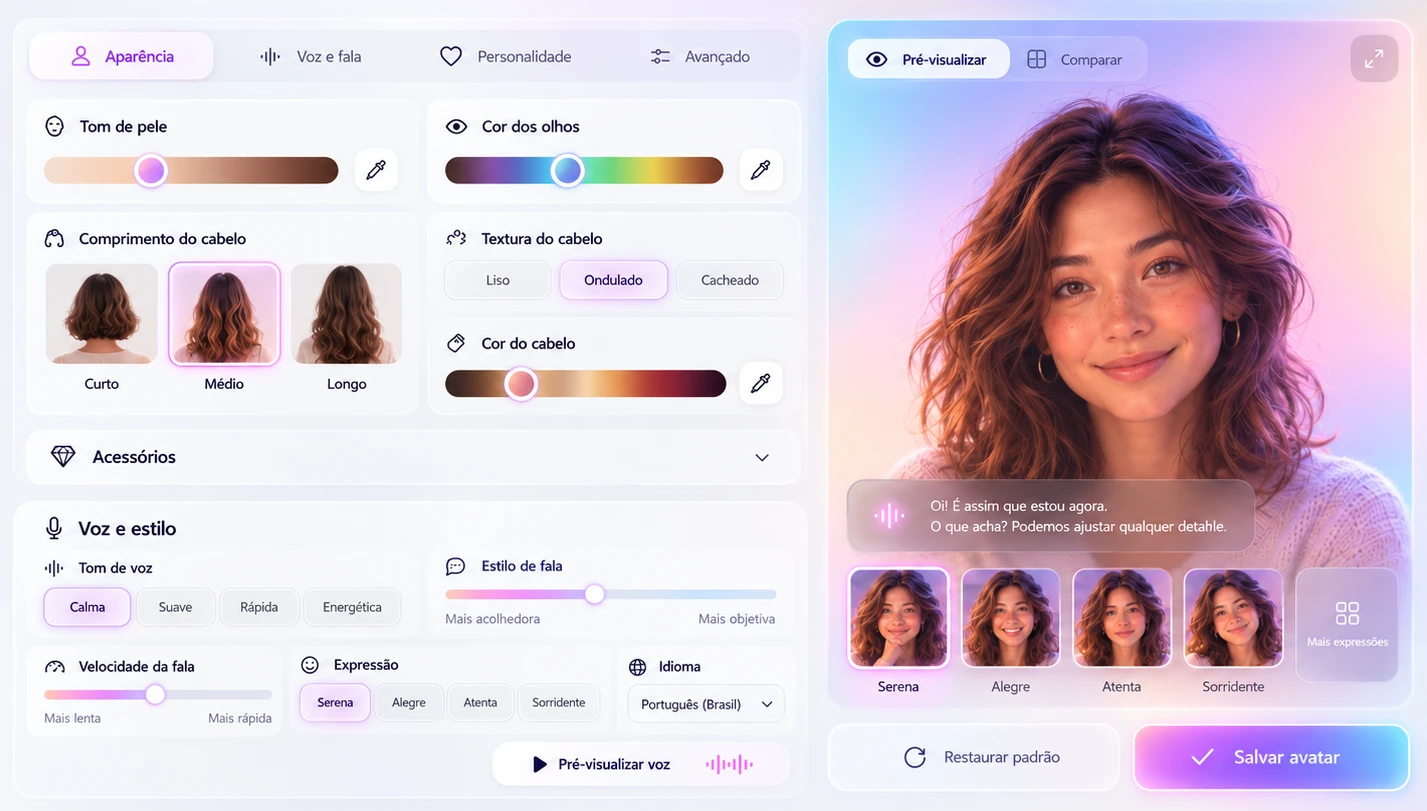
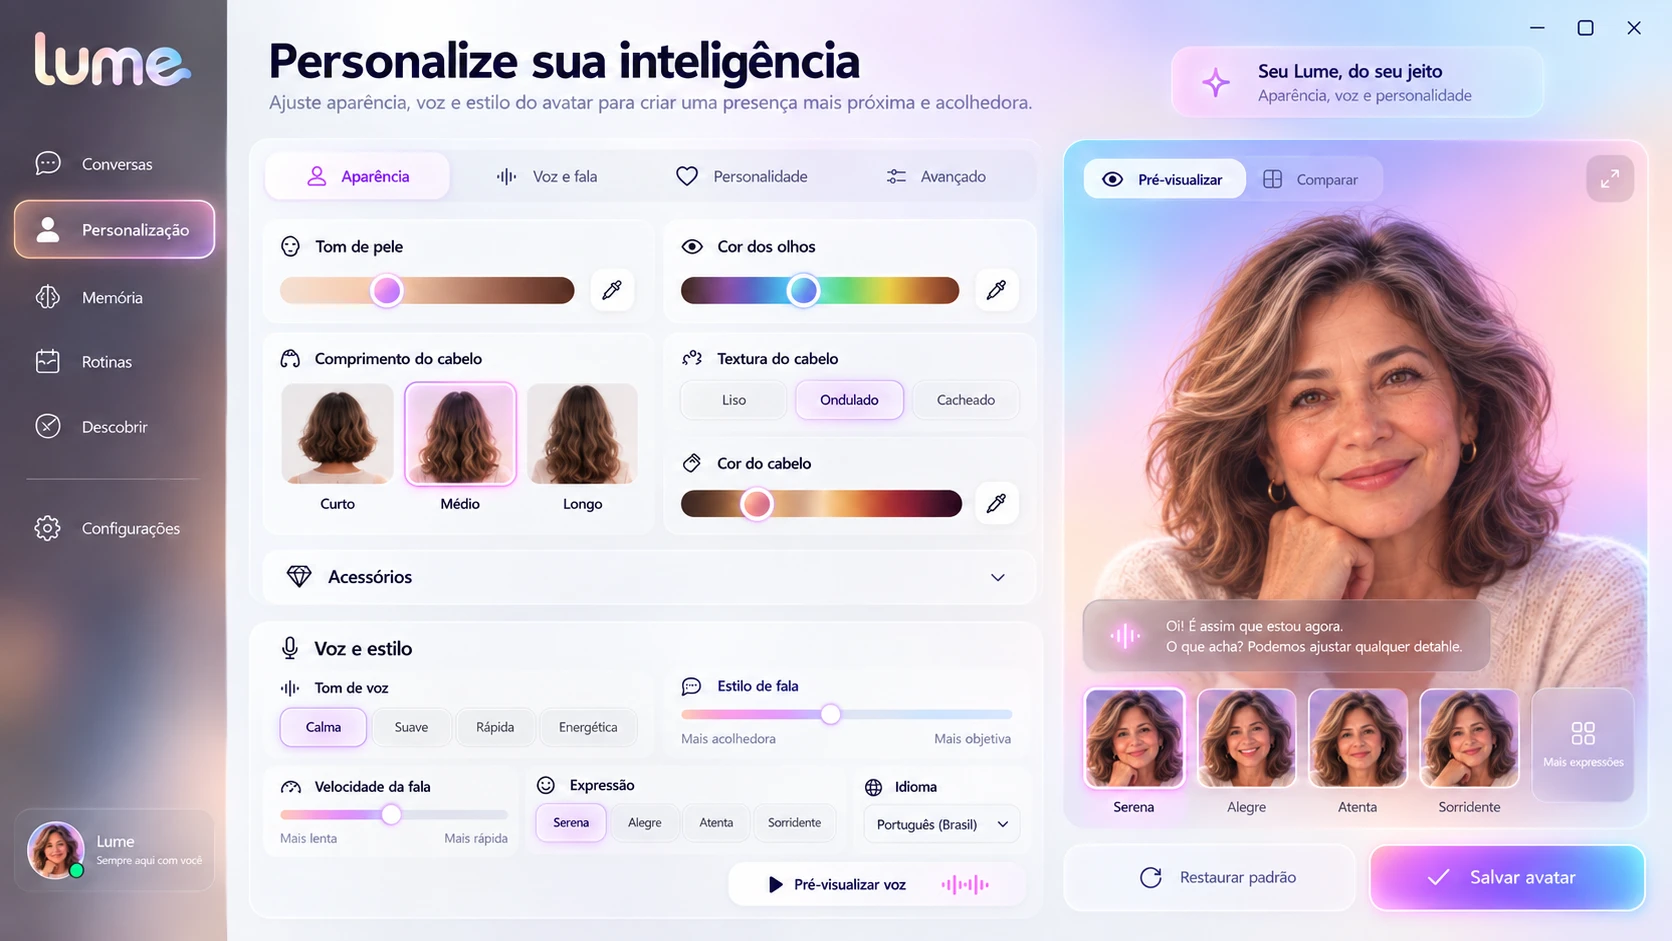
Atualiza a tela de configuração com companheira mais velha
Troca a imagem da seção Com rosto e voz pela versão com a pré-visualização
de uma mulher madura, coerente com a persona da página.

Claude-Session: https://claude.ai/code/session_01PdsmYxSMPP7HSkDtR6tasn

diff --git a/index.html b/index.html
@@ -407,7 +407,7 @@ footer.site .logo{--logo-h:26px}
     </div>
 
     <figure class="estudio">
-      <img src="assets/estudio.webp" alt="Tela de configuração da companheira: abas Aparência, Voz e fala, Personalidade e Avançado; controles de tom de pele, cor dos olhos, comprimento, textura e cor do cabelo, tom de voz, estilo e velocidade da fala, expressão e idioma; à direita, a pré-visualização de uma mulher de cabelos ondulados sorrindo, com a mensagem “Oi! É assim que estou agora. O que acha? Podemos ajustar qualquer detalhe.”" width="1427" height="811" loading="lazy">
+      <img src="assets/estudio.webp" alt="Tela do app lume na aba Personalização: controles de tom de pele, cor dos olhos, comprimento, textura e cor do cabelo, tom de voz, estilo e velocidade da fala, expressão e idioma; à direita, a pré-visualização de uma mulher madura de cabelos ondulados sorrindo, com a mensagem “Oi! É assim que estou agora. O que acha? Podemos ajustar qualquer detalhe.”" width="1672" height="941" loading="lazy">
       <figcaption>Sua mãe e você sempre sabem que é uma companheira virtual. Escolher o rosto e a voz é para ela se sentir à vontade, não para enganar ninguém.</figcaption>
     </figure>
   </div>
